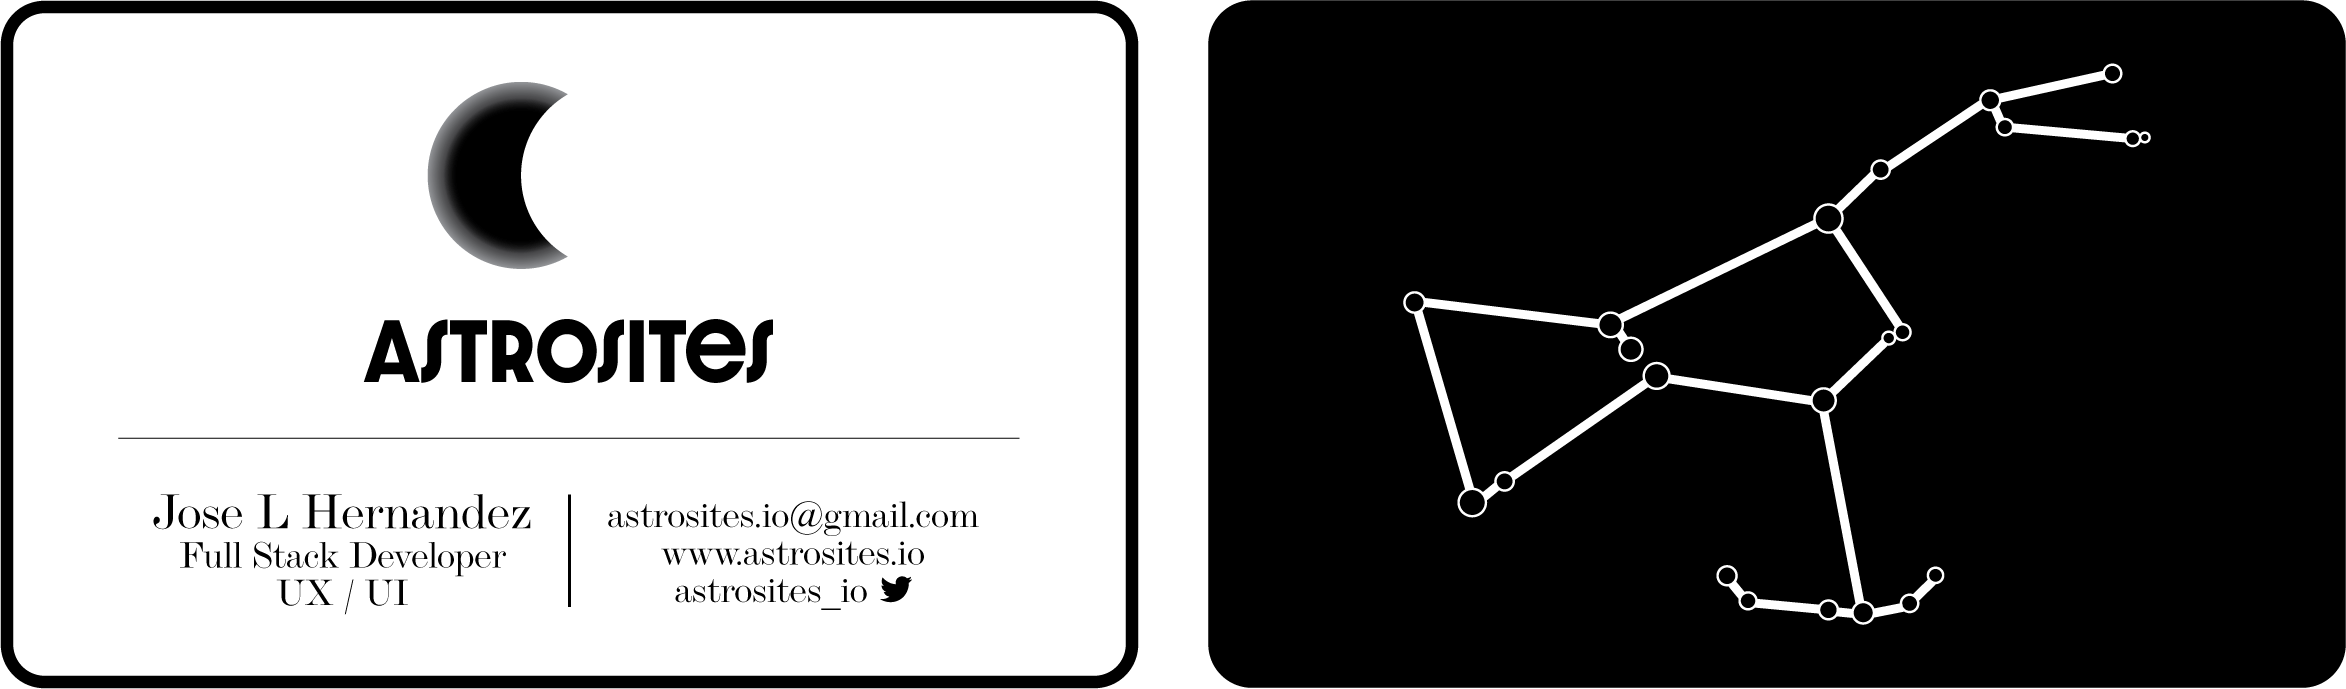
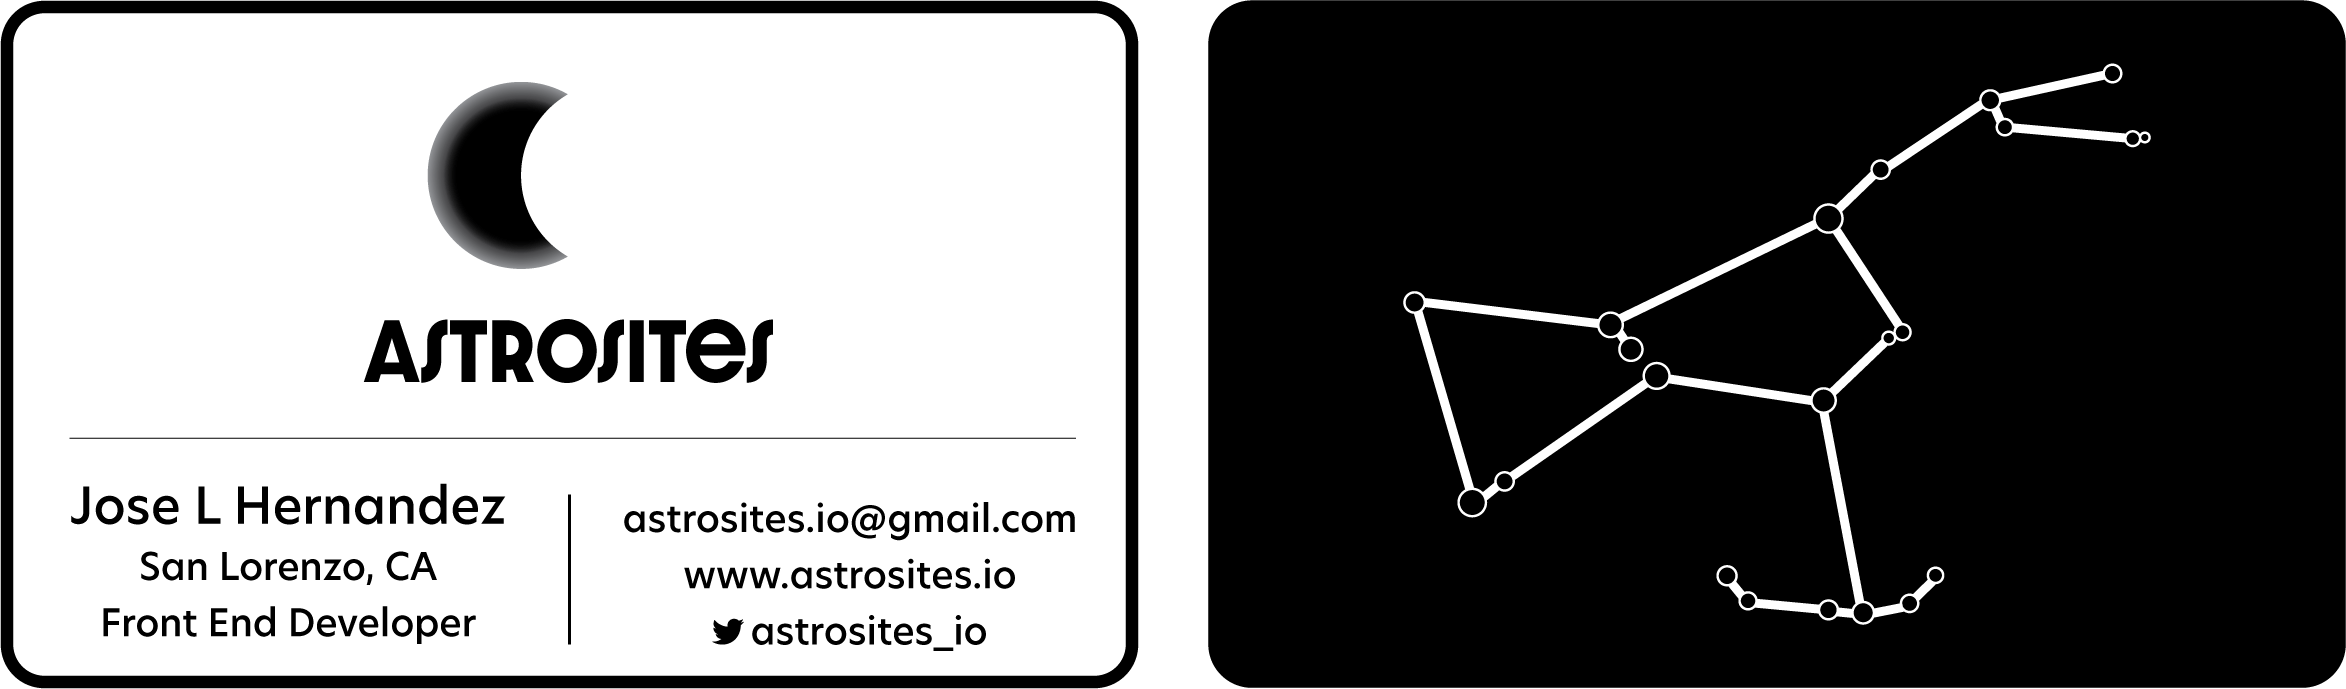
updated business card and resume aligned

Changed region(s): [[0.0311, 0.701, 0.2178, 0.9448], [0.2489, 0.7315, 0.4668, 0.9448]]

diff --git a/src/components/ResumeContent/ResumeContent.js b/src/components/ResumeContent/ResumeContent.js
@@ -2,7 +2,13 @@ import React from "react";
 
 const resumeContent = (props) => (
   <React.Fragment>
-    <iframe className="w-full h-full" src="/final-resume.pdf" title="resume"></iframe>
+    <div className="w-full h-full grid place-items-center">
+      <iframe
+        className="w-full h-full"
+        src="/final-resume.pdf"
+        title="resume"
+      ></iframe>
+    </div>
   </React.Fragment>
 );
 
